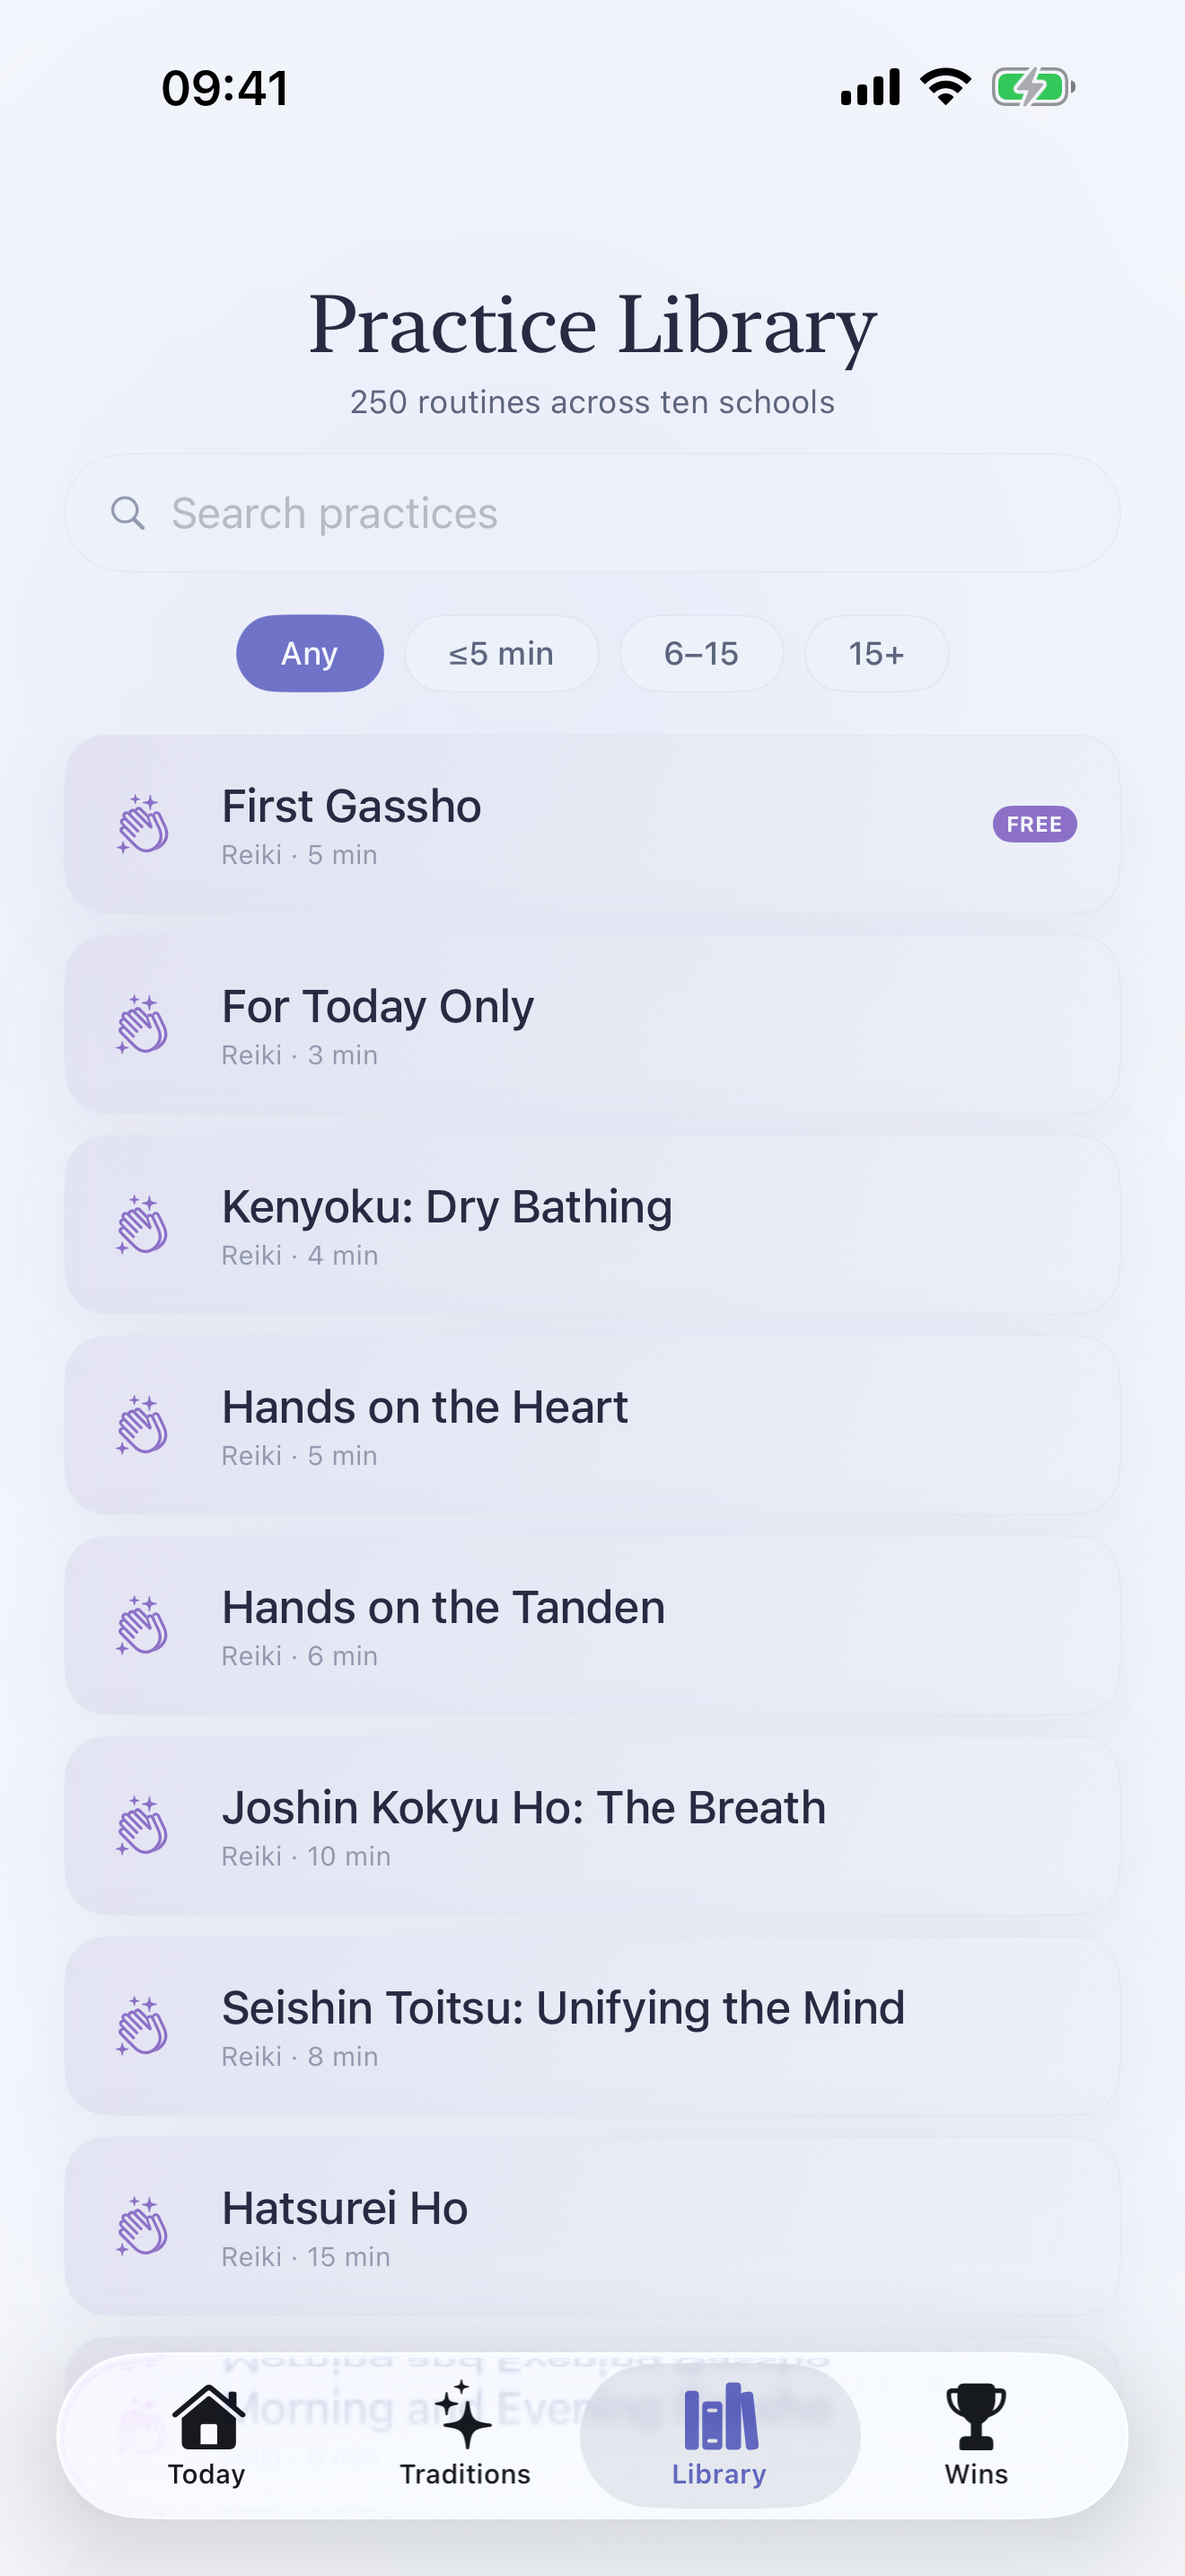
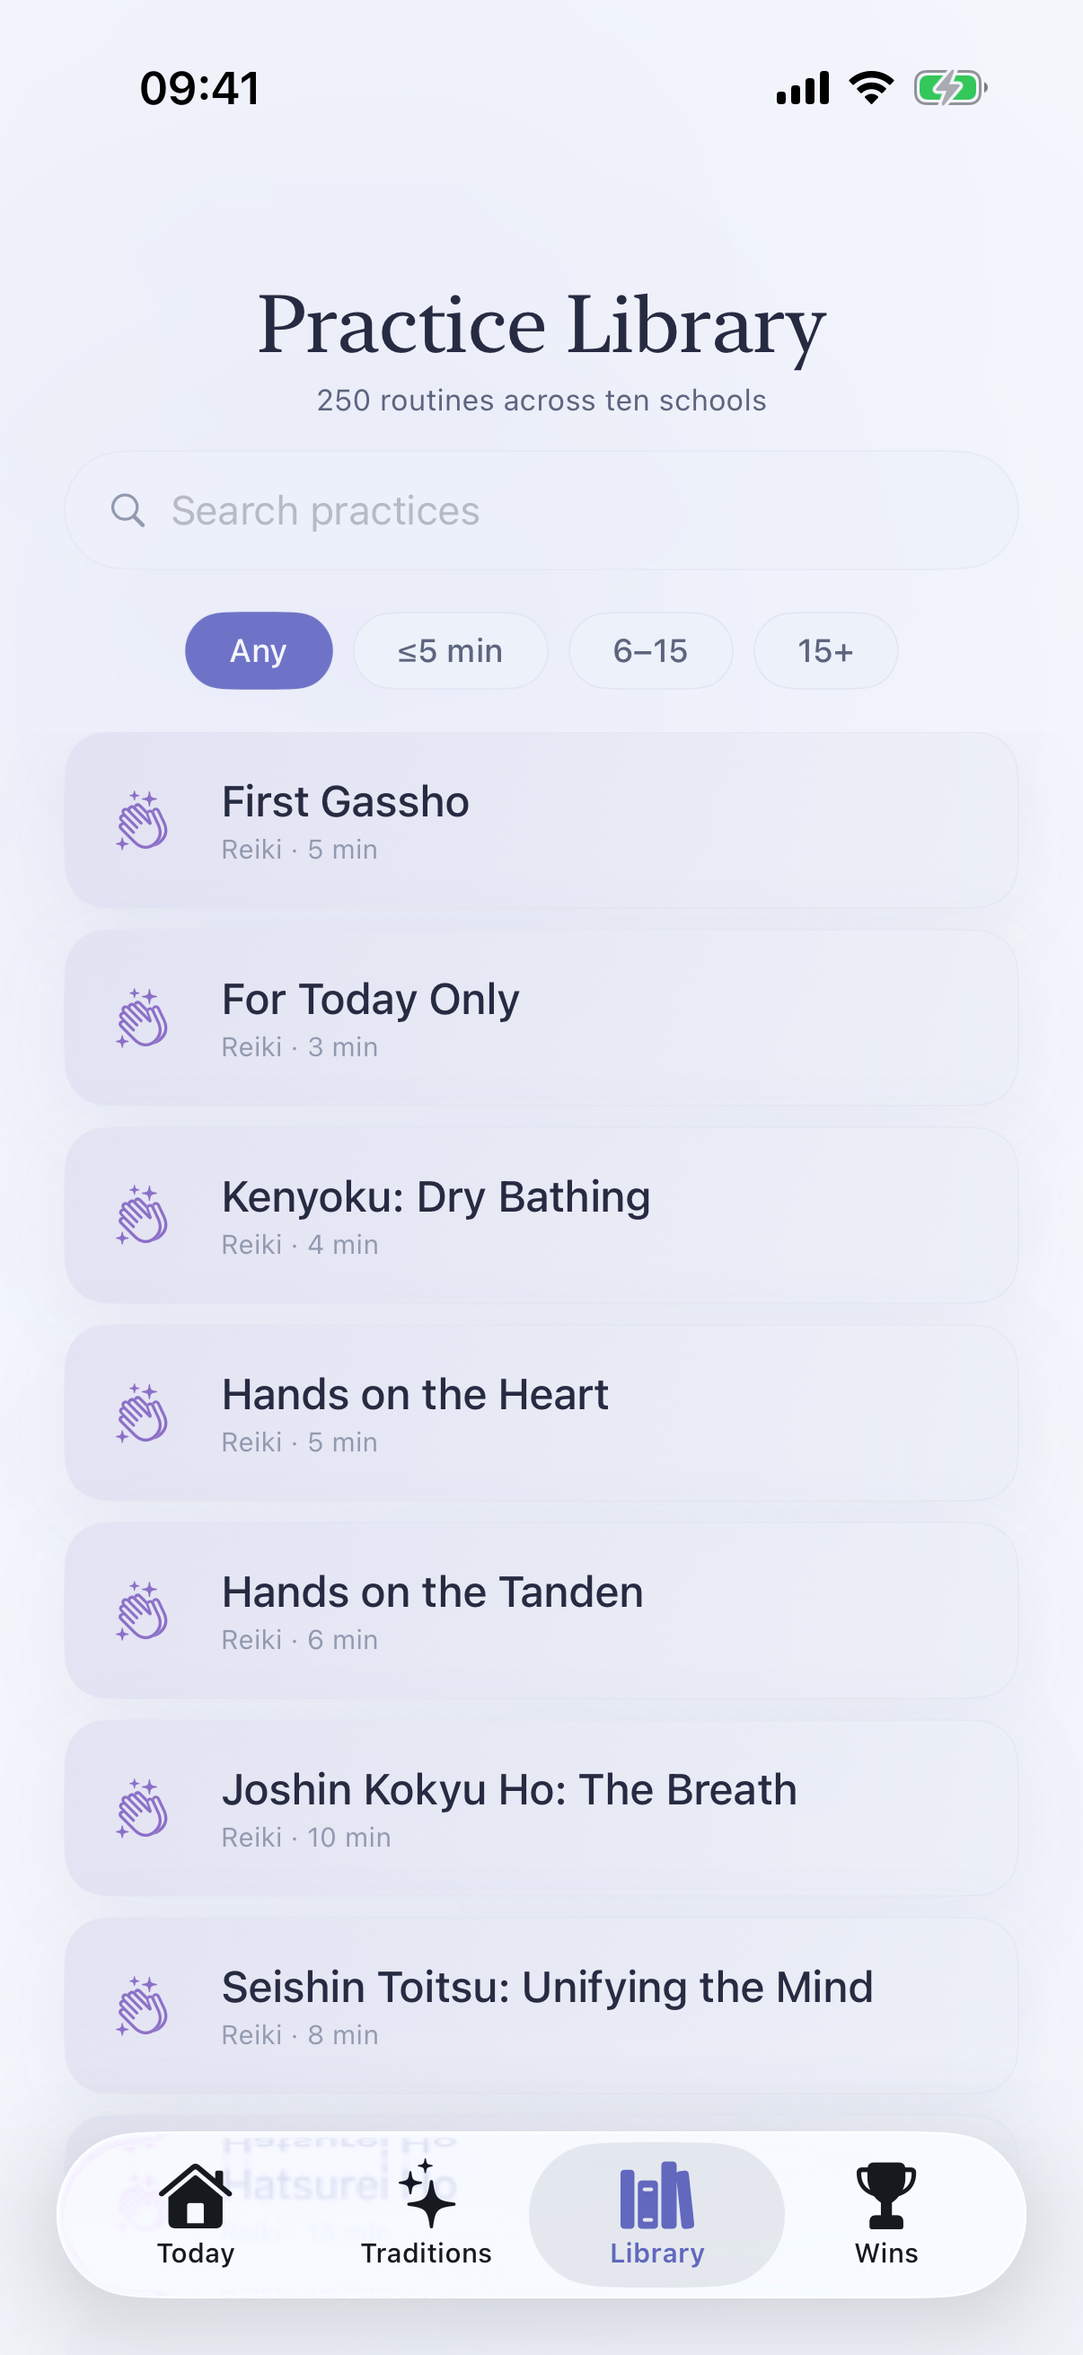
Show the free practice on the store's practice panel
The practice panel now captures the practice everyone gets — Three
Physiological Sighs, the one the alarm wakes you into — rather than a
subscriber's Reiki routine. Library and Wins still show a subscriber, since
those panels are about abundance. Raw captures and rendered panels refreshed.

diff --git a/MorningReset/MorningResetUITests/MorningResetUITests.swift b/MorningReset/MorningResetUITests/MorningResetUITests.swift
@@ -68,10 +68,10 @@ final class MorningResetUITests: XCTestCase {
         snapshot(locked, "03_Teachings")
         locked.terminate()
 
-        // The library and the record are about abundance, so show them to a
-        // subscriber. A column of padlocks sells nothing.
+        // The practice panel shows the practice everyone gets — the free one,
+        // which is also what the alarm wakes you into.
         let full = launchApp(language: "en", region: "en_US",
-                             extraArguments: ["-seedPractice", "-premiumUnlocked"])
+                             extraArguments: ["-seedPractice", "-premiumLocked"])
 
         let begin = full.buttons["alarm.primaryButton"]
         waitForElement(begin, timeout: 8)
@@ -80,6 +80,8 @@ final class MorningResetUITests: XCTestCase {
         snapshot(full, "04_Practice")
         full.terminate()
 
+        // The library and the record are about abundance, so show them to a
+        // subscriber. A column of padlocks sells nothing.
         let last = launchApp(language: "en", region: "en_US",
                              extraArguments: ["-seedPractice", "-premiumUnlocked"])
         last.tabBars.buttons["Library"].tap(); usleep(1_000_000)
